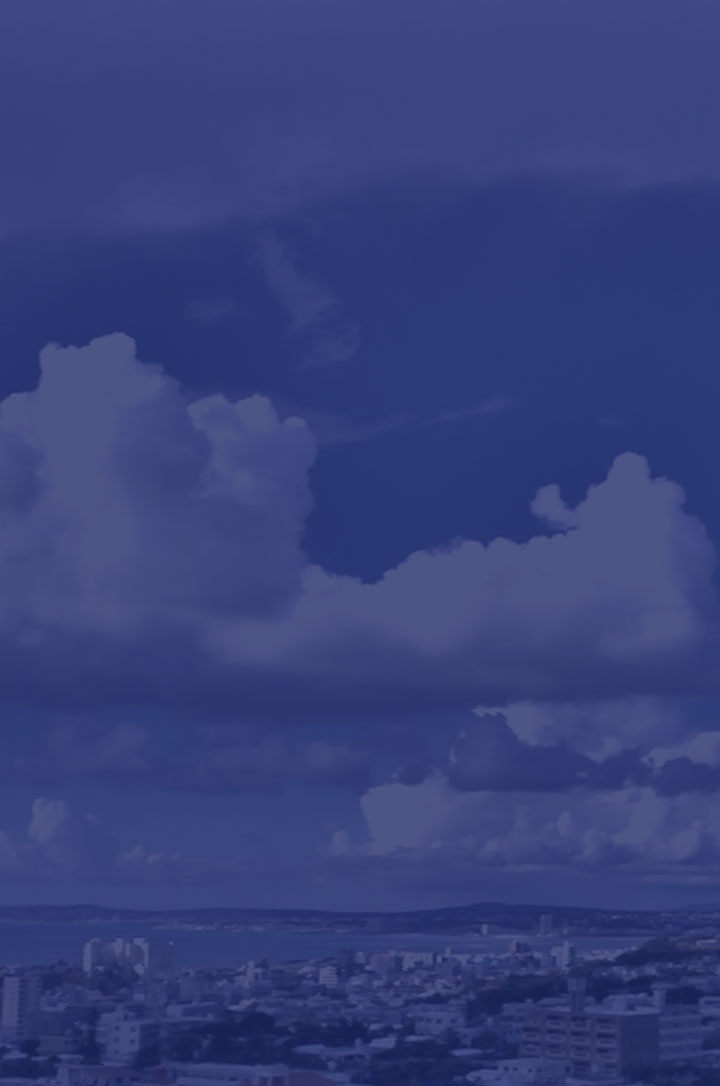
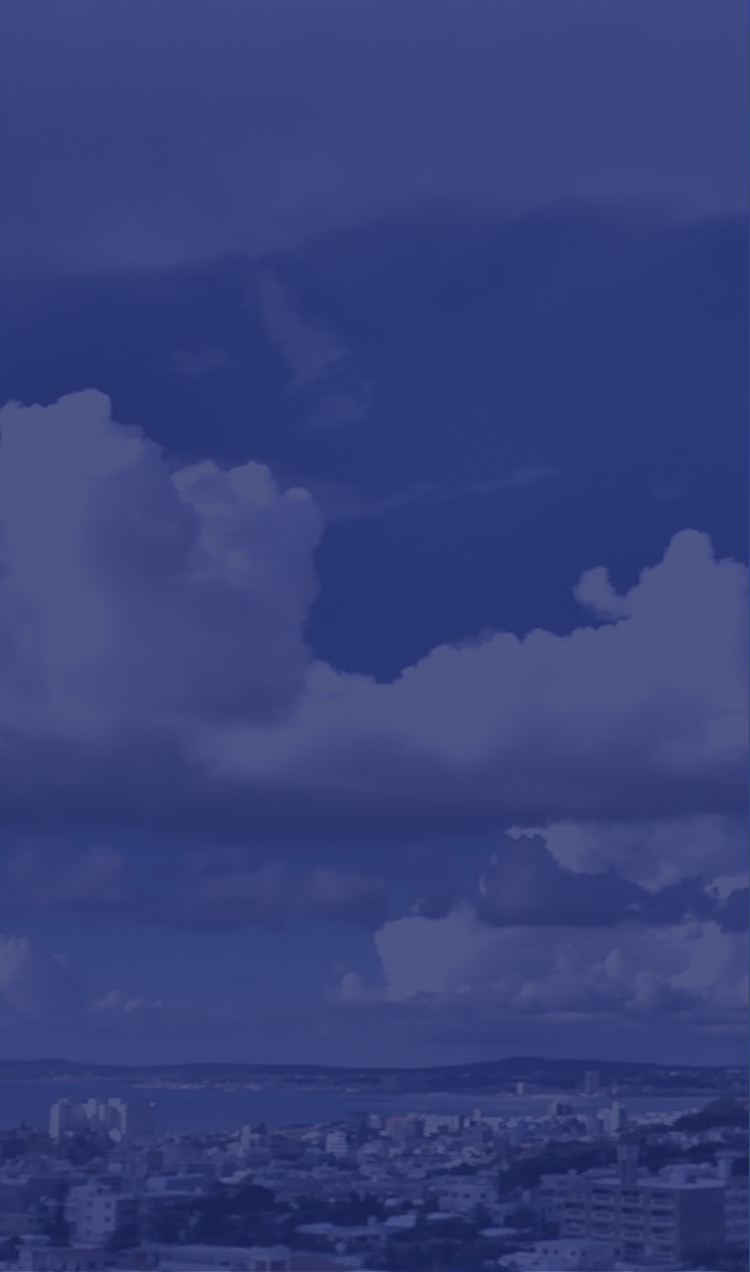
spトップ画微調整

diff --git a/assets/css/sp.css b/assets/css/sp.css
@@ -137,13 +137,13 @@ input, select {
 
 .Wrapper {
   background-image: url("../images/bg_okinawa_04.jpg");
-  background-position: center top;
+  background-position: center -20px;
   background-repeat: no-repeat;
   background-color: #1f2a68; }
   @media only screen and (-webkit-min-device-pixel-ratio: 1.3), only screen and (min--moz-device-pixel-ratio: 1.3), only screen and (-o-min-device-pixel-ratio: 1.3/1), only screen and (min-resolution: 125dpi), only screen and (min-resolution: 1.3dppx) {
     .Wrapper {
       background-image: url("../images/bg_okinawa_04_2x.jpg");
-      background-size: 360px 543px; } }
+      background-size: 375px 636px; } }
 
 .Header {
   position: fixed;

diff --git a/assets/scss/sp.scss b/assets/scss/sp.scss
@@ -4,8 +4,8 @@
 @import "oo";
 
 .Wrapper {
-    @include retina-image("../images/bg_okinawa_04", 360px 543px, "jpg");
-    background-position: center top;
+    @include retina-image("../images/bg_okinawa_04", 375px 636px, "jpg");
+    background-position: center -20px;
     background-repeat: no-repeat;
     background-color: #1f2a68;
 }
